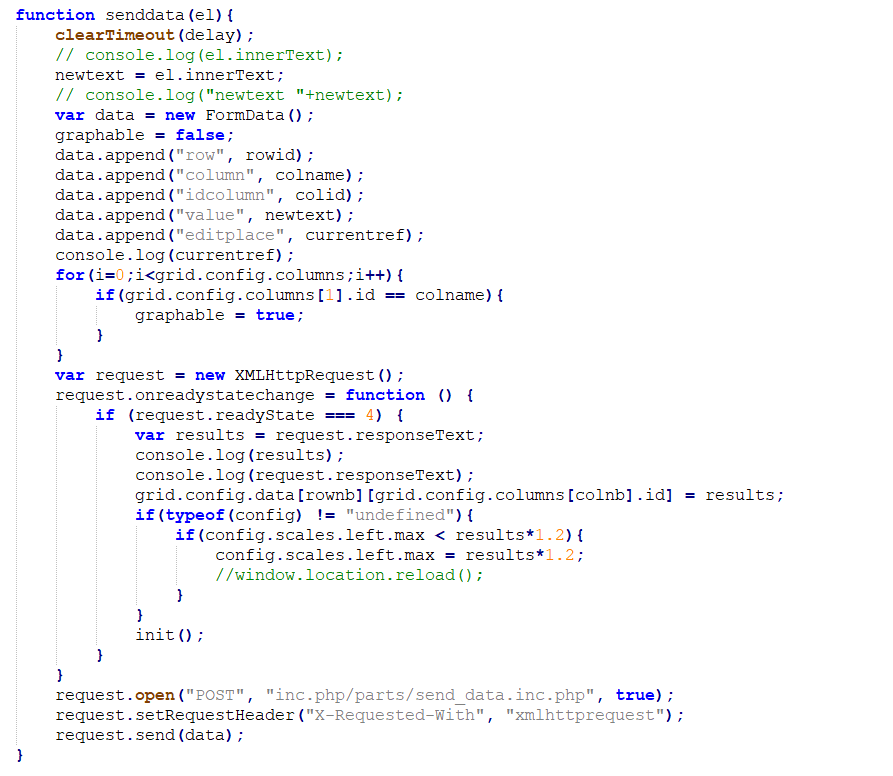
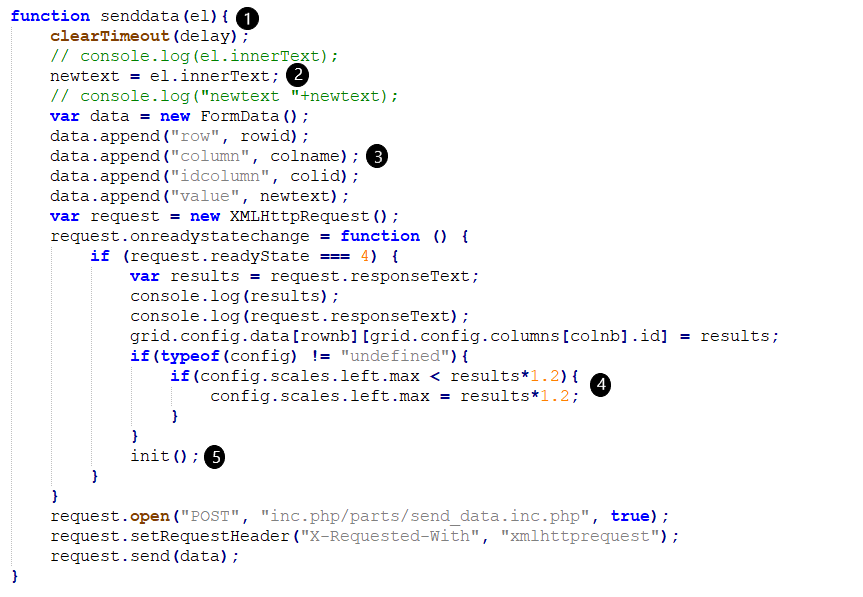
img

diff --git a/exemple/js/edit.js b/exemple/js/edit.js
@@ -237,18 +237,18 @@ window.addEventListener("load", function(){
 		newtext = el.innerText;
 		// console.log("newtext "+newtext);
 		var data = new FormData();
-		graphable = false;
+		//graphable = false;
 		data.append("row", rowid);
 		data.append("column", colname);
 		data.append("idcolumn", colid);
 		data.append("value", newtext);
 		data.append("editplace", currentref);
 		console.log(currentref);
-		for(i=0;i<grid.config.columns;i++){
-			if(grid.config.columns[1].id == colname){
-				graphable = true;
-			}
-		}
+		// for(i=0;i<grid.config.columns;i++){
+			// if(grid.config.columns[1].id == colname){
+				// graphable = true;
+			// }
+		// }
 		var request = new XMLHttpRequest();
 		request.onreadystatechange = function () {
 			if (request.readyState === 4) {
@@ -279,26 +279,15 @@ window.addEventListener("load", function(){
 		console.log(rowid);
 		console.log(colid);
 		var data = new FormData();
-		graphable = false;
 		data.append("row", rowid);
 		data.append("idcolumn", colid);
 		data.append("editplace", currentref);
-		// for(i=0;i<config.series.length;i++){
-			// if(config.series[i].value == colname){
-				// graphable = true;
-			// }
-		// }
 		var request = new XMLHttpRequest();
 		request.onreadystatechange = function () {
 			if (request.readyState === 4) {
 				var results = request.responseText;
 				console.log(results);
 				console.log(request.responseText);
-				// grid.config.data[rownb][grid.config.columns[colnb].id] = results;
-				// if(config.scales.left.max < results*1.2){
-					// config.scales.left.max = results*1.2;
-					// //window.location.reload();
-				// }
 				init();
 			}
 		}
